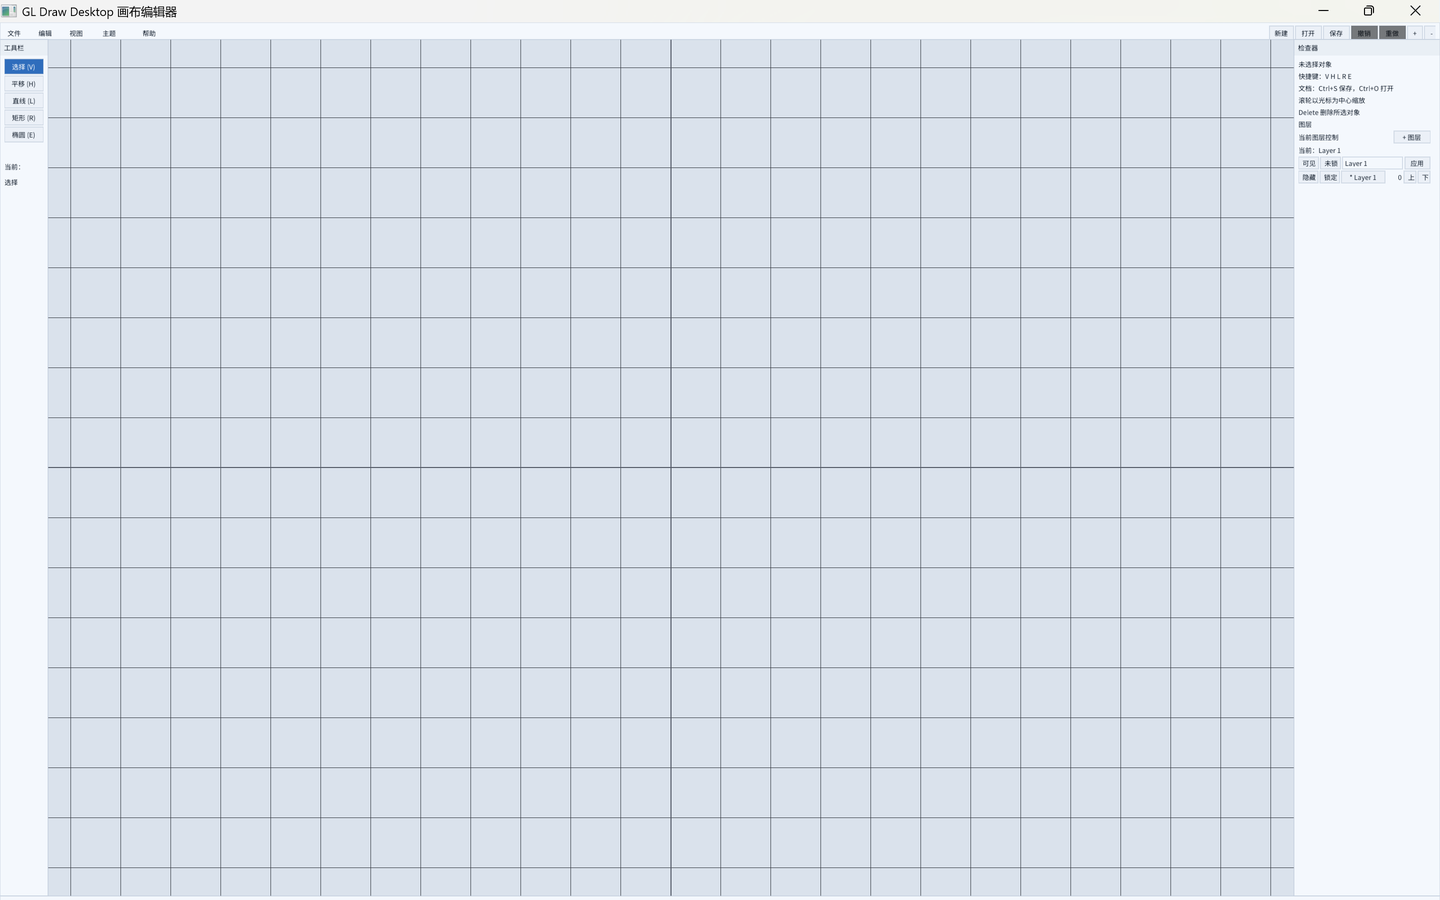
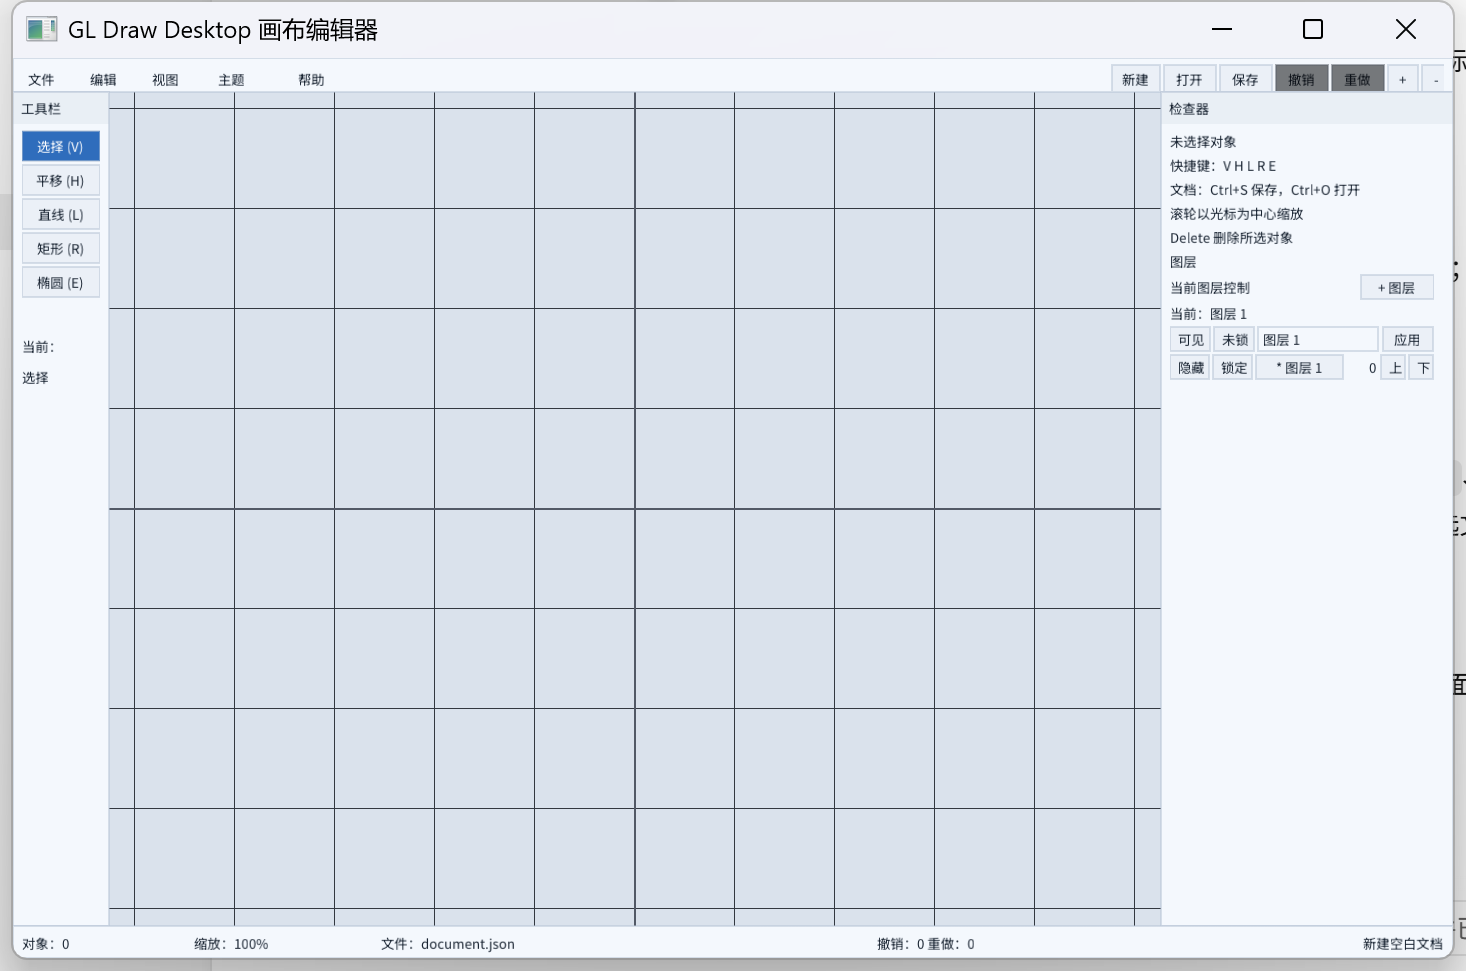
fix(quality): 通过静态分析、覆盖率与安装冒烟
- 修复 clang-tidy 与 cppcheck 指出的空指针、边界、符号转换与浮点循环问题。
- 静态分析在 Lua 关闭时排除可选脚本源文件；禁用跨翻译单元的误报检查。
- 修复覆盖率脚本在 Windows 上的相对路径问题，并把基线更新为实测 50.66%。
- 安装包只分发运行时示例脚本，避免把开发脚本带入用户安装目录。
- 更新中文界面截图，确保与最终版 UI 一致。

diff --git a/src/render/canvas_drawlist.c b/src/render/canvas_drawlist.c
@@ -91,8 +91,8 @@ static int canvas_drawlist_append_stroke(CanvasDrawList* draw_list,
         Vec2* out_points = draw_list->points + write_offset;
 
         for (i = 0; i < point_count - 1; ++i) {
-            out_points[i * 2] = points[i];
-            out_points[i * 2 + 1] = points[i + 1];
+            out_points[(size_t)i * 2u] = points[i];
+            out_points[(size_t)i * 2u + 1u] = points[i + 1];
         }
     } else {
         memcpy(draw_list->points + write_offset,
@@ -144,6 +144,7 @@ static int canvas_drawlist_append_grid(CanvasDrawList* draw_list, const CanvasVi
     Vec2 axis_points[4];
     Vec2* points = NULL;
     int index = 0;
+    int line = 0;
 
     if (point_count > 0) {
         points = (Vec2*)render_arena_alloc(
@@ -152,12 +153,14 @@ static int canvas_drawlist_append_grid(CanvasDrawList* draw_list, const CanvasVi
             return 0;
         }
 
-        for (float x = start_x; x <= end_x + spacing * 0.5f; x += spacing) {
+        for (line = 0; line < vertical_count; ++line) {
+            float x = start_x + spacing * (float)line;
             points[index++] = canvas_view_world_to_screen(canvas, vec2_make(x, visible.y));
             points[index++] =
                 canvas_view_world_to_screen(canvas, vec2_make(x, visible.y + visible.h));
         }
-        for (float y = start_y; y <= end_y + spacing * 0.5f; y += spacing) {
+        for (line = 0; line < horizontal_count; ++line) {
+            float y = start_y + spacing * (float)line;
             points[index++] = canvas_view_world_to_screen(canvas, vec2_make(visible.x, y));
             points[index++] =
                 canvas_view_world_to_screen(canvas, vec2_make(visible.x + visible.w, y));
@@ -311,6 +314,10 @@ int canvas_drawlist_build(CanvasDrawList* draw_list,
         for (i = 0; i < visible_count; ++i) {
             visible_indices[i] = i;
         }
+    }
+
+    if (visible_count > 0 && !visible_indices) {
+        goto cleanup;
     }
 
     for (layer_index = 0; layer_index < document_layer_count(document); ++layer_index) {

diff --git a/tests/document/test_document_core.c b/tests/document/test_document_core.c
@@ -84,7 +84,10 @@ static void test_document_selection_and_deletion(void)
 
     EXPECT_TRUE(selection_set_add(&selection, 2u));
     ids = (ObjectId*)calloc((size_t)selection.count, sizeof(ids[0]));
-    EXPECT_TRUE(ids != NULL);
+    if (!ids) {
+        TEST_FAIL_MESSAGE("内存分配失败");
+        return;
+    }
     for (i = 0; i < selection.count; ++i) {
         ids[i] = selection.ids[i];
     }
@@ -451,7 +454,10 @@ static void test_layer_visibility_and_spatial_query(void)
     EXPECT_TRUE(document_add_object(&document, visible));
 
     indices = (int*)calloc((size_t)document.count, sizeof(indices[0]));
-    EXPECT_TRUE(indices != NULL);
+    if (!indices) {
+        TEST_FAIL_MESSAGE("内存分配失败");
+        return;
+    }
     count = document_query_visible_indices(
         &document, (RectF){ -10.0f, -10.0f, 200.0f, 200.0f }, indices, document.count);
     EXPECT_INT_EQ(count, 1);
@@ -469,11 +475,11 @@ static void test_stress_5000_objects_and_undo_redo(void)
     int i = 0;
 
     document_init(&document);
-    EXPECT_TRUE(command_executor_init_with_budget(&executor, 32u * 1024u * 1024u));
+    EXPECT_TRUE(command_executor_init_with_budget(&executor, (size_t)32u * 1024u * 1024u));
 
     for (i = 0; i < 5000; ++i) {
         float x = (float)(i % 100) * 12.0f;
-        float y = (float)(i / 100) * 12.0f;
+        float y = ((float)i / 100.0f) * 12.0f;
         EXPECT_TRUE(document_add_object(&document, create_rect(x, y, 10.0f, 10.0f)));
     }
     EXPECT_INT_EQ(document.count, 5000);

diff --git a/src/render/render_device_gl.c b/src/render/render_device_gl.c
@@ -129,7 +129,7 @@ static int gl_render_upload_and_draw(GLRenderDevice* device,
     buffer_pool_bind_vertex_stream(&device->stroke_stream);
     glBufferSubData(GL_ARRAY_BUFFER,
                     0,
-                    (GLsizeiptr)(vertex_count * GL_RENDER_VERTEX_STRIDE_FLOATS *
+                    (GLsizeiptr)((size_t)vertex_count * GL_RENDER_VERTEX_STRIDE_FLOATS *
                                  sizeof(device->vertex_buffer[0])),
                     device->vertex_buffer);
     glLineWidth((material->line_width > 0.5f) ? material->line_width : 1.0f);
@@ -368,12 +368,14 @@ RenderDevice* gl_render_device_create(PlatformWindow* window)
     if (!shader_manager_load_program(
             &device->shader_manager, &basic_program_desc, &device->basic_program)) {
         gl_render_destroy(&device->base);
+        // cppcheck-suppress memleak
         return NULL;
     }
 
     if (!buffer_pool_create_vertex_stream(
             &device->buffer_pool, &STROKE_STREAM_DESC, &device->stroke_stream)) {
         gl_render_destroy(&device->base);
+        // cppcheck-suppress memleak
         return NULL;
     }
 
@@ -385,6 +387,7 @@ RenderDevice* gl_render_device_create(PlatformWindow* window)
                           window->framebuffer_width,
                           window->framebuffer_height)) {
         gl_render_destroy(&device->base);
+        // cppcheck-suppress memleak
         return NULL;
     }
 

diff --git a/src/document/persistence_write.c b/src/document/persistence_write.c
@@ -6,6 +6,7 @@
 
 #include <stdio.h>
 #include <stdlib.h>
+#include <string.h>
 
 static const char* layer_blend_mode_name(DocumentLayerBlendMode blend_mode)
 {
@@ -22,15 +23,18 @@ static const char* layer_blend_mode_name(DocumentLayerBlendMode blend_mode)
 
 static int write_json_string(FILE* file, const char* text)
 {
-    const unsigned char* cursor = (const unsigned char*)(text ? text : "");
+    size_t length = text ? strlen(text) : 0u;
+    size_t index = 0u;
 
     if (!file) {
         return 0;
     }
 
     fputc('"', file);
-    while (*cursor) {
-        switch (*cursor) {
+    for (index = 0u; index < length; ++index) {
+        unsigned char current = (unsigned char)text[index];
+
+        switch (current) {
         case '"':
             fputs("\\\"", file);
             break;
@@ -53,14 +57,13 @@ static int write_json_string(FILE* file, const char* text)
             fputs("\\t", file);
             break;
         default:
-            if (*cursor < 0x20u) {
-                fprintf(file, "\\u%04x", (unsigned int)*cursor);
+            if (current < 0x20u) {
+                fprintf(file, "\\u%04x", (unsigned int)current);
             } else {
-                fputc((int)*cursor, file);
+                fputc((int)current, file);
             }
             break;
         }
-        cursor++;
     }
     fputc('"', file);
     return ferror(file) == 0;

diff --git a/src/base/file_utils.c b/src/base/file_utils.c
@@ -18,6 +18,7 @@ char* file_utils_read_text_file(const char* path)
     char* buffer = NULL;
     long size = 0;
     size_t read_size = 0u;
+    size_t capacity = 0u;
 
     if (!path || path[0] == '\0') {
         return NULL;
@@ -38,14 +39,20 @@ char* file_utils_read_text_file(const char* path)
         return NULL;
     }
 
-    buffer = (char*)malloc((size_t)size + 1u);
+    capacity = (size_t)size + 1u;
+    buffer = (char*)malloc(capacity);
     if (!buffer) {
         fclose(file);
         return NULL;
     }
 
-    read_size = fread(buffer, 1u, (size_t)size, file);
-    if (read_size != (size_t)size && ferror(file)) {
+    read_size = fread(buffer, 1u, capacity - 1u, file);
+    if (read_size >= capacity) {
+        free(buffer);
+        fclose(file);
+        return NULL;
+    }
+    if (read_size != capacity - 1u && ferror(file)) {
         free(buffer);
         fclose(file);
         return NULL;

diff --git a/src/render/buffer_pool.c b/src/render/buffer_pool.c
@@ -110,12 +110,13 @@ int buffer_pool_create_vertex_stream(BufferPool* pool,
     for (i = 0u; i < desc->attribute_count; ++i) {
         const RenderVertexAttribute* attribute = &desc->attributes[i];
 
-        glVertexAttribPointer(attribute->index,
-                              attribute->component_count,
-                              GL_FLOAT,
-                              GL_FALSE,
-                              (GLsizei)stream.stride_bytes,
-                              (void*)(uintptr_t)attribute->offset_bytes);
+        glVertexAttribPointer(
+            attribute->index,
+            attribute->component_count,
+            GL_FLOAT,
+            GL_FALSE,
+            (GLsizei)stream.stride_bytes,
+            (void*)(uintptr_t)attribute->offset_bytes); // NOLINT(performance-no-int-to-ptr)
         glEnableVertexAttribArray(attribute->index);
     }
     glBindVertexArray(0);

diff --git a/src/ui/ui_menubar_render.c b/src/ui/ui_menubar_render.c
@@ -259,7 +259,7 @@ static int ui_render_quick_action(UiMenuBar* menubar,
         return -1;
     }
 
-    descriptor = command_catalog_find_by_menu_id(quick_action->menu_id);
+    descriptor = command_catalog_find_by_menu_id((int)quick_action->menu_id);
     enabled = ui_menu_is_action_available(view_model, quick_action->menu_id);
     nk_layout_row_push(ctx, quick_action->width);
     if (!enabled) {
@@ -270,7 +270,7 @@ static int ui_render_quick_action(UiMenuBar* menubar,
         if (!enabled) {
             nk_widget_disable_end(ctx);
         }
-        return quick_action->menu_id;
+        return (int)quick_action->menu_id;
     }
     hovered = nk_input_is_mouse_hovering_rect(&ctx->input, widget_bounds);
     tooltip[0] = '\0';

diff --git a/src/ui/ui_layer_panel.c b/src/ui/ui_layer_panel.c
@@ -98,7 +98,7 @@ void ui_layers_panel(UiSystem* ui, struct nk_context* ctx, const EditorViewModel
         if (!ui->modal_active) {
             nk_flags edit_result = nk_edit_string_zero_terminated(
                 ctx,
-                NK_EDIT_FIELD | NK_EDIT_SIG_ENTER | NK_EDIT_CLIPBOARD,
+                (nk_flags)NK_EDIT_FIELD | (nk_flags)NK_EDIT_SIG_ENTER | (nk_flags)NK_EDIT_CLIPBOARD,
                 ui->layer_name_buffer,
                 (int)sizeof(ui->layer_name_buffer) - 1,
                 nk_filter_default);

diff --git a/src/ui/ui_theme_parse.c b/src/ui/ui_theme_parse.c
@@ -210,13 +210,18 @@ static int ui_parse_hex_byte(const char* text, unsigned char* out_value)
 {
     int hi = 0;
     int lo = 0;
+    size_t length = 0u;
 
     if (!text || !out_value) {
         return 0;
     }
+    length = strlen(text);
+    if (length < 2u) {
+        return 0;
+    }
 
     hi = ui_hex_digit_value(text[0]);
-    lo = ui_hex_digit_value(text[1]);
+    lo = ui_hex_digit_value(text[1]); // NOLINT(clang-analyzer-core.CallAndMessage)
     if (hi < 0 || lo < 0) {
         return 0;
     }

diff --git a/src/commands/command_paste_objects.c b/src/commands/command_paste_objects.c
@@ -72,8 +72,10 @@ static void paste_objects_destroy(void* cmd)
         return;
     }
 
-    for (i = 0; i < command->object_count; ++i) {
-        object_destroy(command->object_snapshots[i]);
+    if (command->object_snapshots) {
+        for (i = 0; i < command->object_count; ++i) {
+            object_destroy(command->object_snapshots[i]);
+        }
     }
     g_allocator.free_fn(command->object_snapshots);
     g_allocator.free_fn(command->object_ids);

diff --git a/src/commands/command_delete_selection.c b/src/commands/command_delete_selection.c
@@ -52,8 +52,10 @@ static void delete_selection_destroy(void* cmd)
         return;
     }
 
-    for (i = 0; i < command->object_count; ++i) {
-        object_destroy(command->objects[i]);
+    if (command->objects) {
+        for (i = 0; i < command->object_count; ++i) {
+            object_destroy(command->objects[i]);
+        }
     }
     g_allocator.free_fn(command->objects);
     g_allocator.free_fn(command->original_indices);

diff --git a/src/main.c b/src/main.c
@@ -18,8 +18,8 @@ int main(int argc, char** argv)
 {
     const char* program = (argc > 0 && argv[0] != NULL) ? argv[0] : "gl-draw-desktop";
 
-    for (int i = 1; i < argc; ++i) {
-        const char* arg = argv[i];
+    if (argc > 1) {
+        const char* arg = argv[1];
         if (strcmp(arg, "-h") == 0 || strcmp(arg, "--help") == 0) {
             print_usage(stdout, program);
             return 0;
